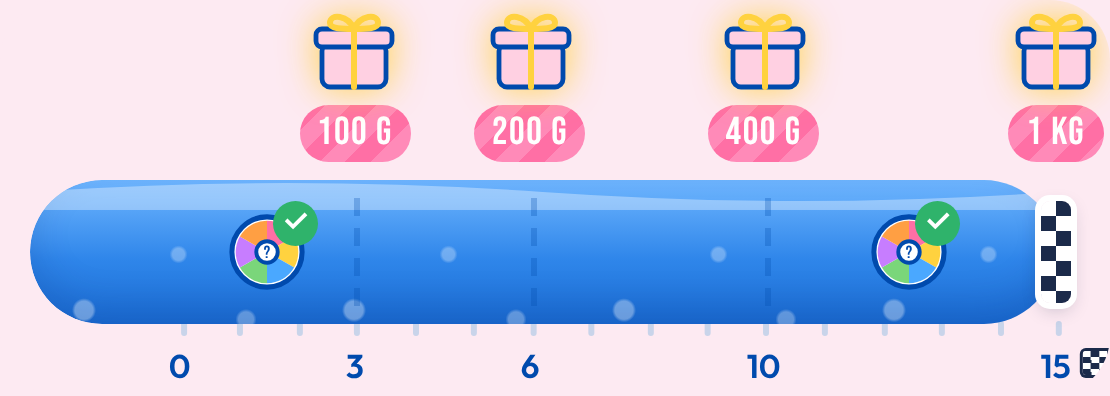
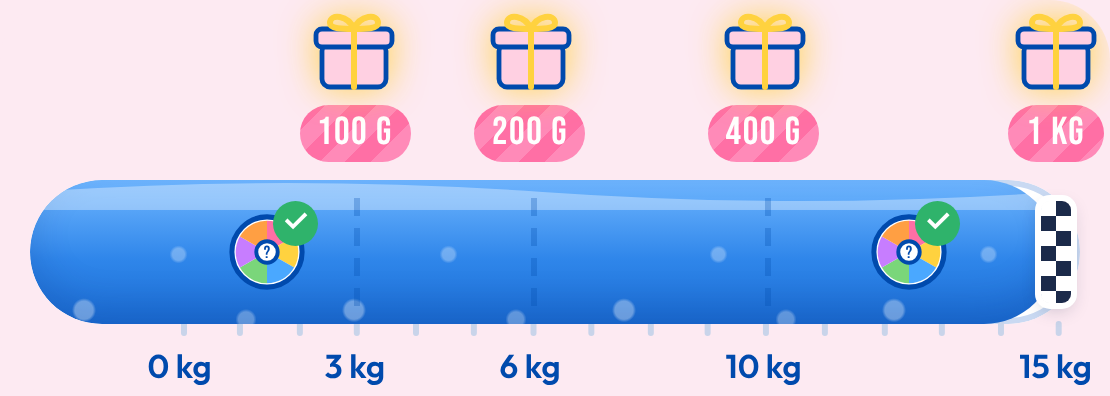
Win-back email 1: visible white lane track and kg on the lane numbers
Claude-Session: https://claude.ai/code/session_0184Zg2Yh87DaUYkpDJjLSys

diff --git a/wordpress/email-assets/make-email-lane.js b/wordpress/email-assets/make-email-lane.js
@@ -16,9 +16,10 @@ const S = process.argv[2];
       const t = document.createElement('div'); t.innerHTML = assets;
       t.querySelectorAll('style').forEach(s => document.head.appendChild(s.cloneNode(true)));
       t.querySelectorAll('script').forEach(s => { const n = document.createElement('script'); n.textContent = s.textContent; document.body.appendChild(n); });
-      const x = document.createElement('style'); x.textContent = '.fika-swim{box-shadow:none!important;background:#fdeaf2!important;padding:0 10px!important}.fs-head,.fs-note{display:none!important}*{animation-play-state:paused!important;transition:none!important}'; document.head.appendChild(x);
+      const x = document.createElement('style'); x.textContent = '.fika-swim{box-shadow:none!important;background:#fdeaf2!important;padding:0 10px!important}.fs-head,.fs-note{display:none!important}*{animation-play-state:paused!important;transition:none!important}.fs-lane{background-color:#ffffff!important;box-shadow:inset 0 0 0 2px #c9d9f2!important}.fs-ticks i.m{white-space:nowrap}.fs-ticks i[data-i="15"]::after{display:none!important}'; document.head.appendChild(x);
     }, d);
     await p.waitForTimeout(2500);
+    await p.evaluate(() => { document.querySelectorAll('.fs-ticks i.m').forEach(e => { if (!/kg/.test(e.textContent)) e.textContent = e.textContent + ' kg'; }); });
     await p.evaluate((k) => { document.querySelectorAll('.fs-spin').forEach(e => { e.className = 'fs-spin ' + (k === '0' ? 'is-locked' : 'is-won'); }); }, k);
     await p.waitForTimeout(500);
     const sec = await p.$('.fika-swim');

diff --git a/wordpress/snippets/fika-winback.php b/wordpress/snippets/fika-winback.php
@@ -196,14 +196,14 @@ if ( ! function_exists( 'fika_wb_settings' ) ) {
 		return $g;
 	}
 	// the website's fish lane as a picture for this many grams (0-15000, in 100 g steps): the empty lane, the full
-	// lane up to the fish, and the fish (media 1130-1132, drawn from the real lane by
+	// lane up to the fish, and the fish (media 1133-1135, drawn from the real lane by
 	// wordpress/email-assets/make-email-lane.js at 3x). Saved once per step under uploads/fika-lane/, so email apps
 	// fetch a plain file. False if it cannot be made (no GD, missing pictures): the email then shows a plain bar.
 	function fika_wb_lane_url( $g ) {
 		$g   = max( 0, min( 15000, (int) round( $g / 100 ) * 100 ) );
 		$up  = wp_upload_dir();
 		$dir = trailingslashit( $up['basedir'] ) . 'fika-lane';
-		$fn  = 'lane-v2-' . $g . '.png';
+		$fn  = 'lane-v3-' . $g . '.png';
 		$url = trailingslashit( $up['baseurl'] ) . 'fika-lane/' . $fn;
 		if ( file_exists( $dir . '/' . $fn ) ) {
 			return $url;

diff --git a/wordpress/woocommerce-setup.md b/wordpress/woocommerce-setup.md
@@ -1674,3 +1674,7 @@ choice). Snippet 91, fika-club.php (new):
   wheels the water has passed lit, the fish on top; saved once as uploads/fika-lane/lane-v2-<g>.png (a plain file,
   loads for Gmail's image proxy). Without GD or the pictures it falls back to the plain bar. Earlier test uploads
   1127-1129 were deleted; uploads/fika-lane/lane-v1-2300.png is a harmless leftover.
+- Lane v3 (owner: the bar must be visible; add "kg" to the numbers): the track is white with a light blue edge
+  (the website's lane is pink, the same as the email box), the marked numbers read "0 kg ... 15 kg" (the little
+  chequered flag after 15 is dropped, the finish flag on the lane stays). Media 1133-1135 replace 1130-1132 (deleted);
+  files are now uploads/fika-lane/lane-v3-<g>.png (v1/v2 files there are unused leftovers).
